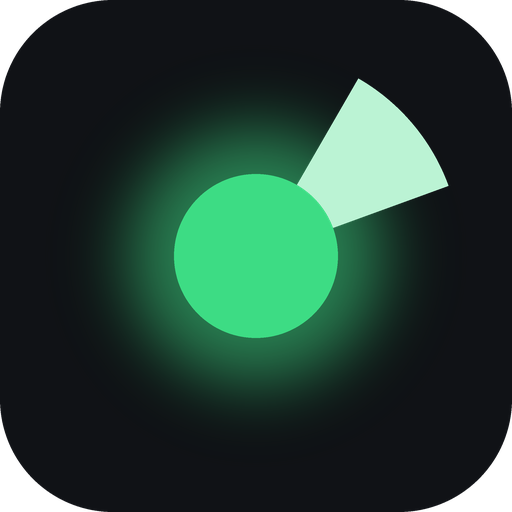
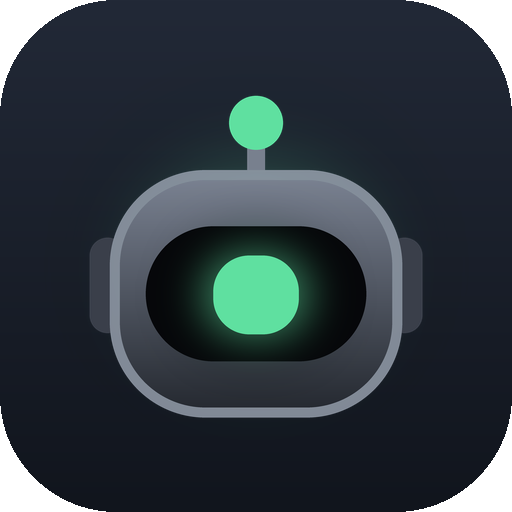
Instalador de um clique e versão portátil; ícone do app vira o Vigia
- TopWatch-Setup.exe instala só pro usuário (sem administrador), cria atalho e abre o app
- TopWatch-Portable.exe roda sem instalar
- nomes fixos, então o botão do site baixa direto da última versão

diff --git a/site/index.html b/site/index.html
@@ -32,7 +32,7 @@
         <div class="hero-side">
           <p class="lead">Uma barra discreta no topo da tela. Você continua no que está fazendo; quando um alerta grave aparece, a luz muda de cor e a barra mostra o host com problema.</p>
           <div class="actions">
-            <a class="btn primary" href="https://github.com/victorhugoantonio1/topwatch/releases/latest">
+            <a class="btn primary" href="https://github.com/victorhugoantonio1/topwatch/releases/latest/download/TopWatch-Setup.exe">
               <svg viewBox="0 0 24 24" fill="none" stroke="currentColor" stroke-width="2" stroke-linecap="round" stroke-linejoin="round" aria-hidden="true"><path d="M12 4v11m0 0-4.5-4.5M12 15l4.5-4.5M5 20h14" /></svg>
               Baixar para Windows
             </a>
@@ -173,11 +173,11 @@ joao.silva       True
 
       <section id="instalar">
         <div class="wrap">
-          <h2>Instalar leva dois minutos</h2>
+          <h2>Instalar leva um minuto</h2>
           <ol class="steps">
             <li>
-              <h3>Baixe o instalador</h3>
-              <p>Na página de <a href="https://github.com/victorhugoantonio1/topwatch/releases/latest">versões do GitHub</a>, baixe o <code>.exe</code> mais recente.</p>
+              <h3>Baixe e abra</h3>
+              <p>Clique em <a href="https://github.com/victorhugoantonio1/topwatch/releases/latest/download/TopWatch-Setup.exe">Baixar para Windows</a> e abra o <code>TopWatch-Setup.exe</code>. Ele instala só pro seu usuário, sem pedir administrador, e já abre. Sem instalar nada além dele. Prefere sem instalar? Use a <a href="https://github.com/victorhugoantonio1/topwatch/releases/latest/download/TopWatch-Portable.exe">versão portátil</a>.</p>
             </li>
             <li>
               <h3>Libere no SmartScreen</h3>

diff --git a/scripts/app-icon.py b/scripts/app-icon.py
@@ -1,0 +1,36 @@
+"""Gera o ícone do app (assets/icon.png, 512 px): o Vigia sobre um ladrilho escuro, o mesmo do site.
+
+Uso: python scripts/app-icon.py   (precisa do Pillow)
+O electron-builder usa esse PNG pra montar o .ico do instalador e do atalho.
+"""
+
+import importlib.util
+from pathlib import Path
+
+from PIL import Image, ImageDraw, ImageFilter
+
+HERE = Path(__file__).resolve().parent
+spec = importlib.util.spec_from_file_location("tray_icons", HERE / "tray-icons.py")
+tray = importlib.util.module_from_spec(spec)
+spec.loader.exec_module(tray)
+
+S = 512
+tile = Image.new("RGBA", (S, S), (0, 0, 0, 0))
+mask = Image.new("L", (S, S), 0)
+ImageDraw.Draw(mask).rounded_rectangle([0, 0, S - 1, S - 1], radius=116, fill=255)
+grad = Image.new("RGBA", (S, S))
+g = ImageDraw.Draw(grad)
+for y in range(S):
+    t = y / S
+    g.line([0, y, S, y], fill=(int(34 - 17 * t), int(41 - 20 * t), int(55 - 26 * t), 255))
+tile.paste(grad, (0, 0), mask)
+# brilho verde atrás do robô
+glow = Image.new("RGBA", (S, S), (0, 0, 0, 0))
+ImageDraw.Draw(glow).ellipse([116, 136, 396, 396], fill=(95, 224, 160, 70))
+glow = glow.filter(ImageFilter.GaussianBlur(48))
+tile = Image.alpha_composite(tile, Image.composite(glow, Image.new("RGBA", (S, S), (0, 0, 0, 0)), mask))
+bot = tray.draw(tray.LEVELS["ok"], tray.FRAMES["x0"], 360)
+tile.alpha_composite(bot, ((S - 360) // 2, (S - 360) // 2 + 4))
+out = HERE.parent / "assets" / "icon.png"
+tile.save(out, optimize=True)
+print(f"ícone salvo em {out}")

diff --git a/README.md b/README.md
@@ -26,7 +26,9 @@ Feito pra quem não quer ficar com uma aba do Zabbix aberta o dia inteiro. Outra
 
 ## Instalar
 
-Baixe o instalador `.exe` em [Releases](../../releases). Como o instalador não é assinado digitalmente, o SmartScreen vai mostrar "Editor desconhecido": clique em **Mais informações → Executar assim mesmo**. O instalador é gerado pelo GitHub Actions a partir deste código (veja `.github/workflows/release.yml`).
+Baixe o [**TopWatch-Setup.exe**](https://github.com/victorhugoantonio1/topwatch/releases/latest/download/TopWatch-Setup.exe) e abra. Ele instala só pro seu usuário (não pede administrador), cria o atalho e já abre o app. Não precisa instalar Node nem nada além dele. Se preferir não instalar, use o [**TopWatch-Portable.exe**](https://github.com/victorhugoantonio1/topwatch/releases/latest/download/TopWatch-Portable.exe).
+
+Como o instalador não é assinado digitalmente, o SmartScreen vai mostrar "Editor desconhecido": clique em **Mais informações → Executar assim mesmo**. O instalador é gerado pelo GitHub Actions a partir deste código (veja `.github/workflows/release.yml`).
 
 Ou rode do código:
 
